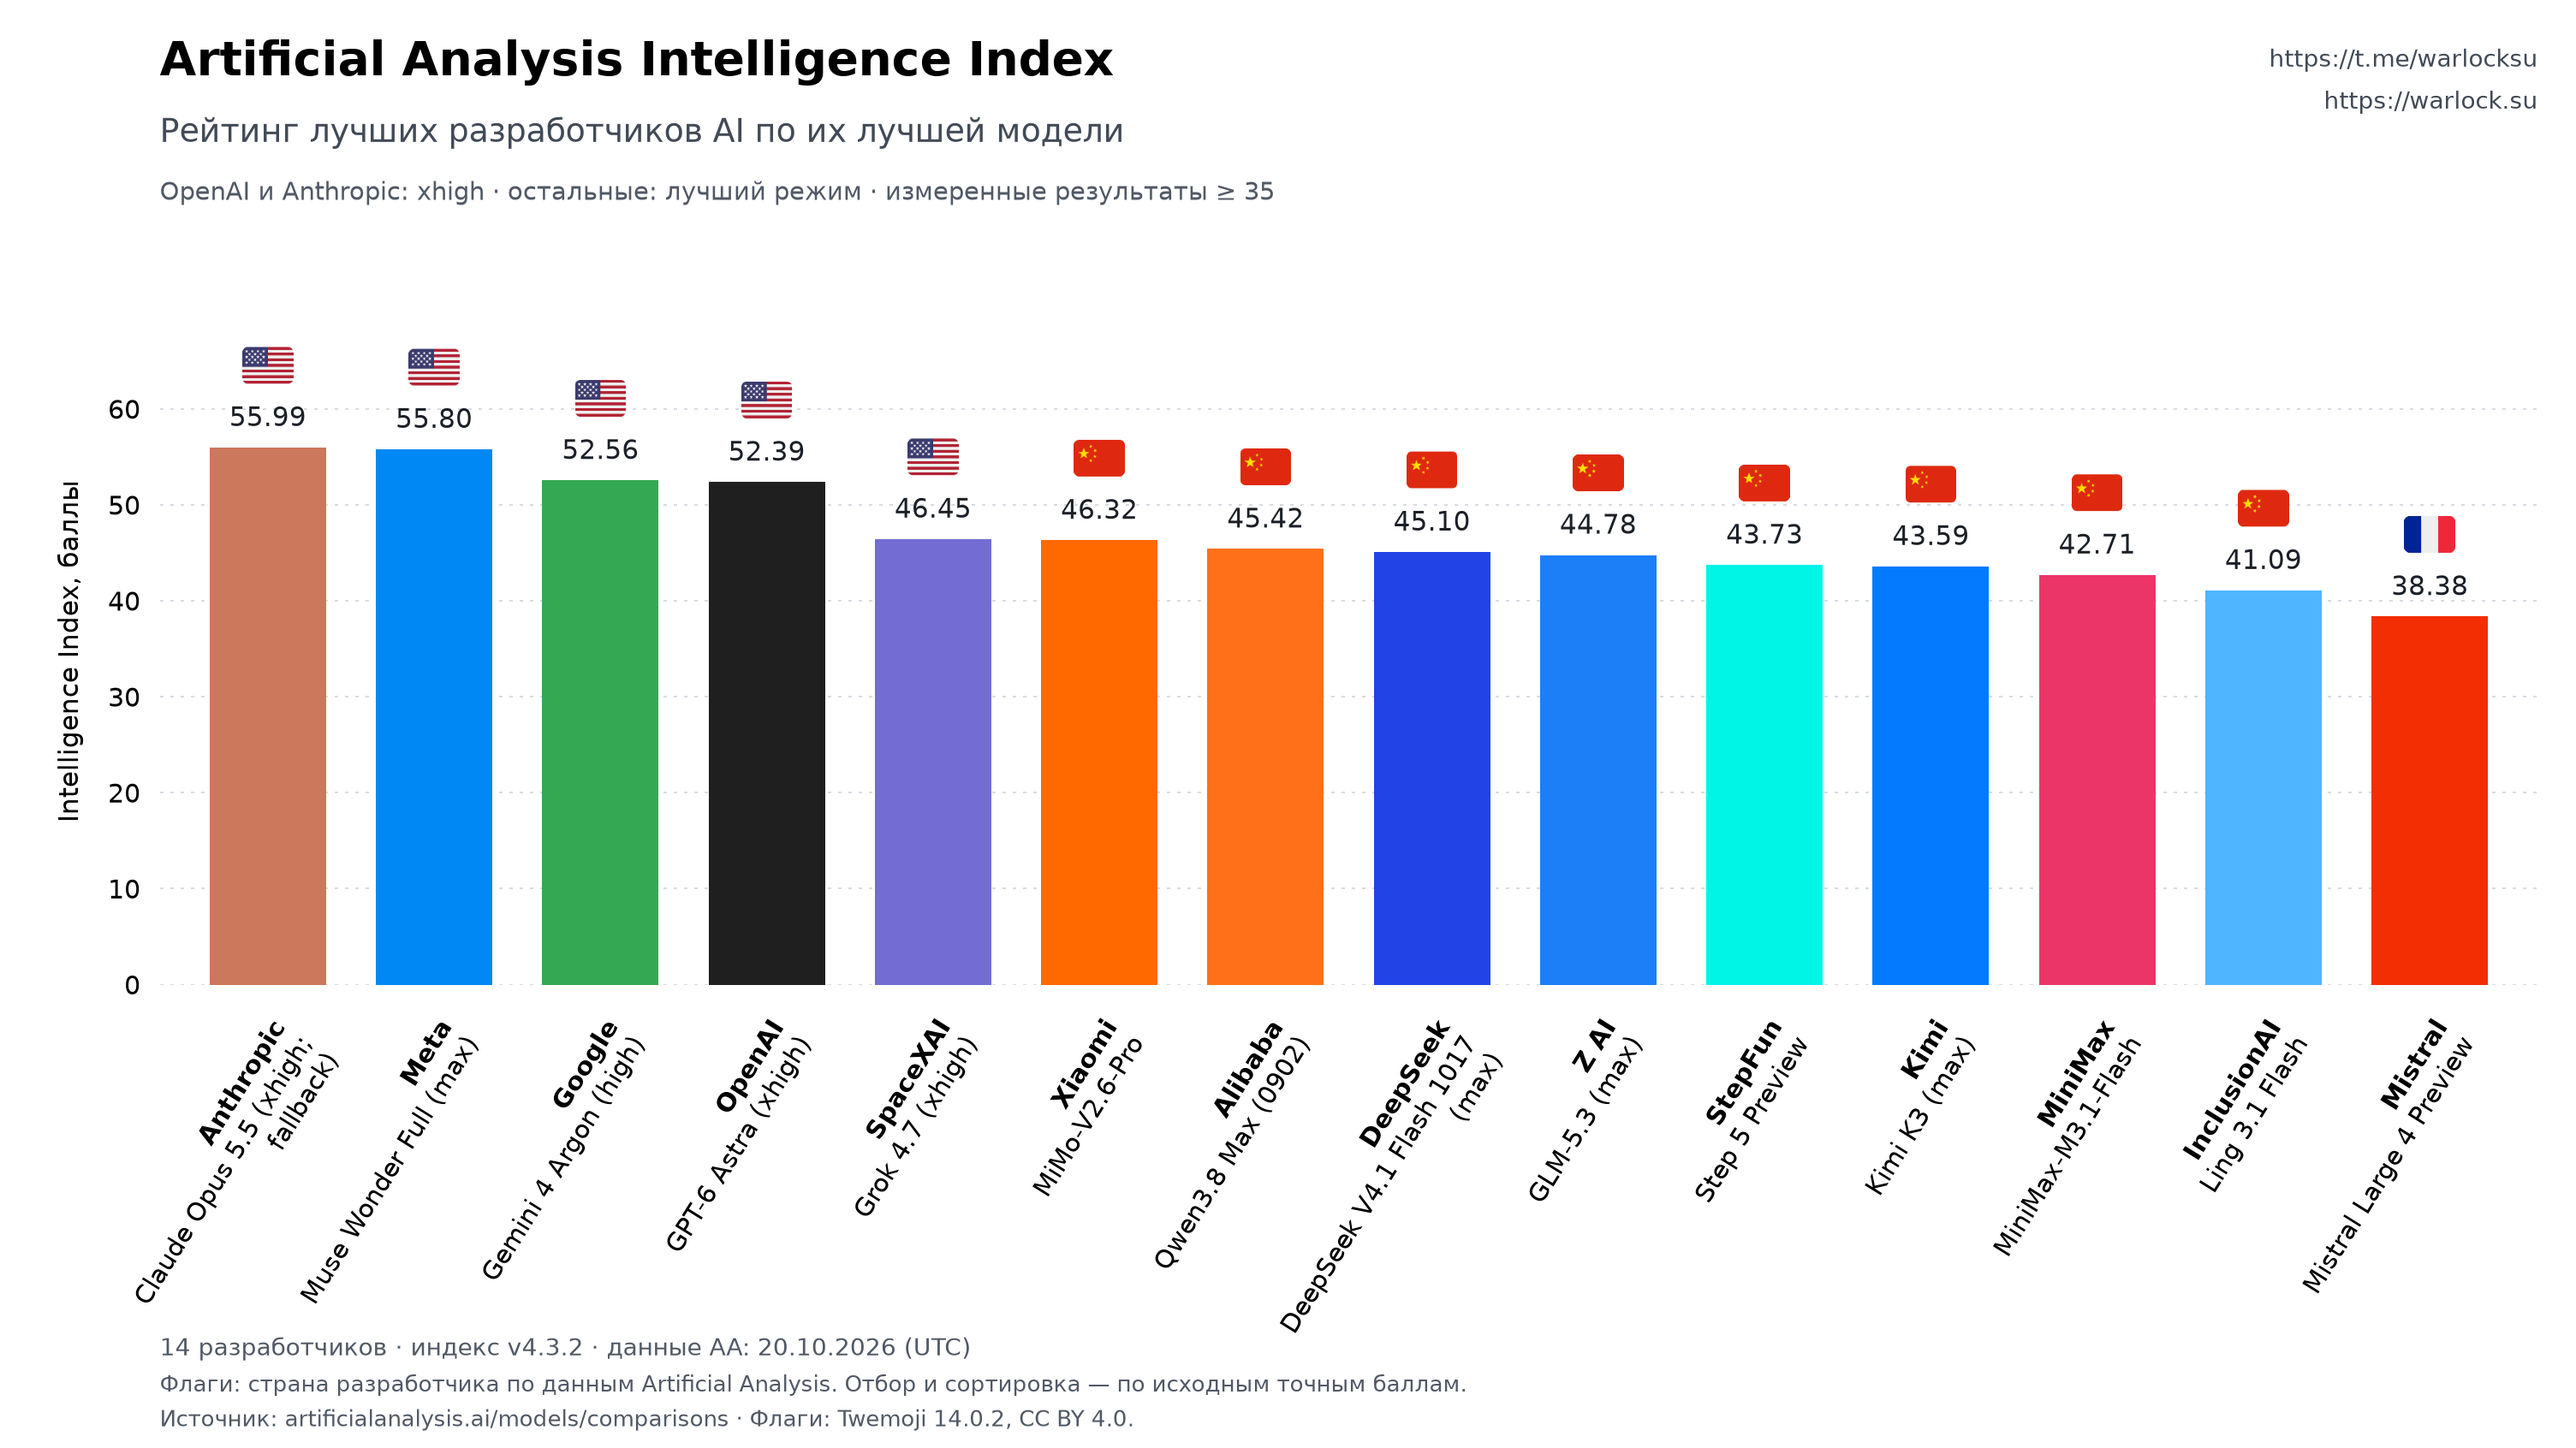
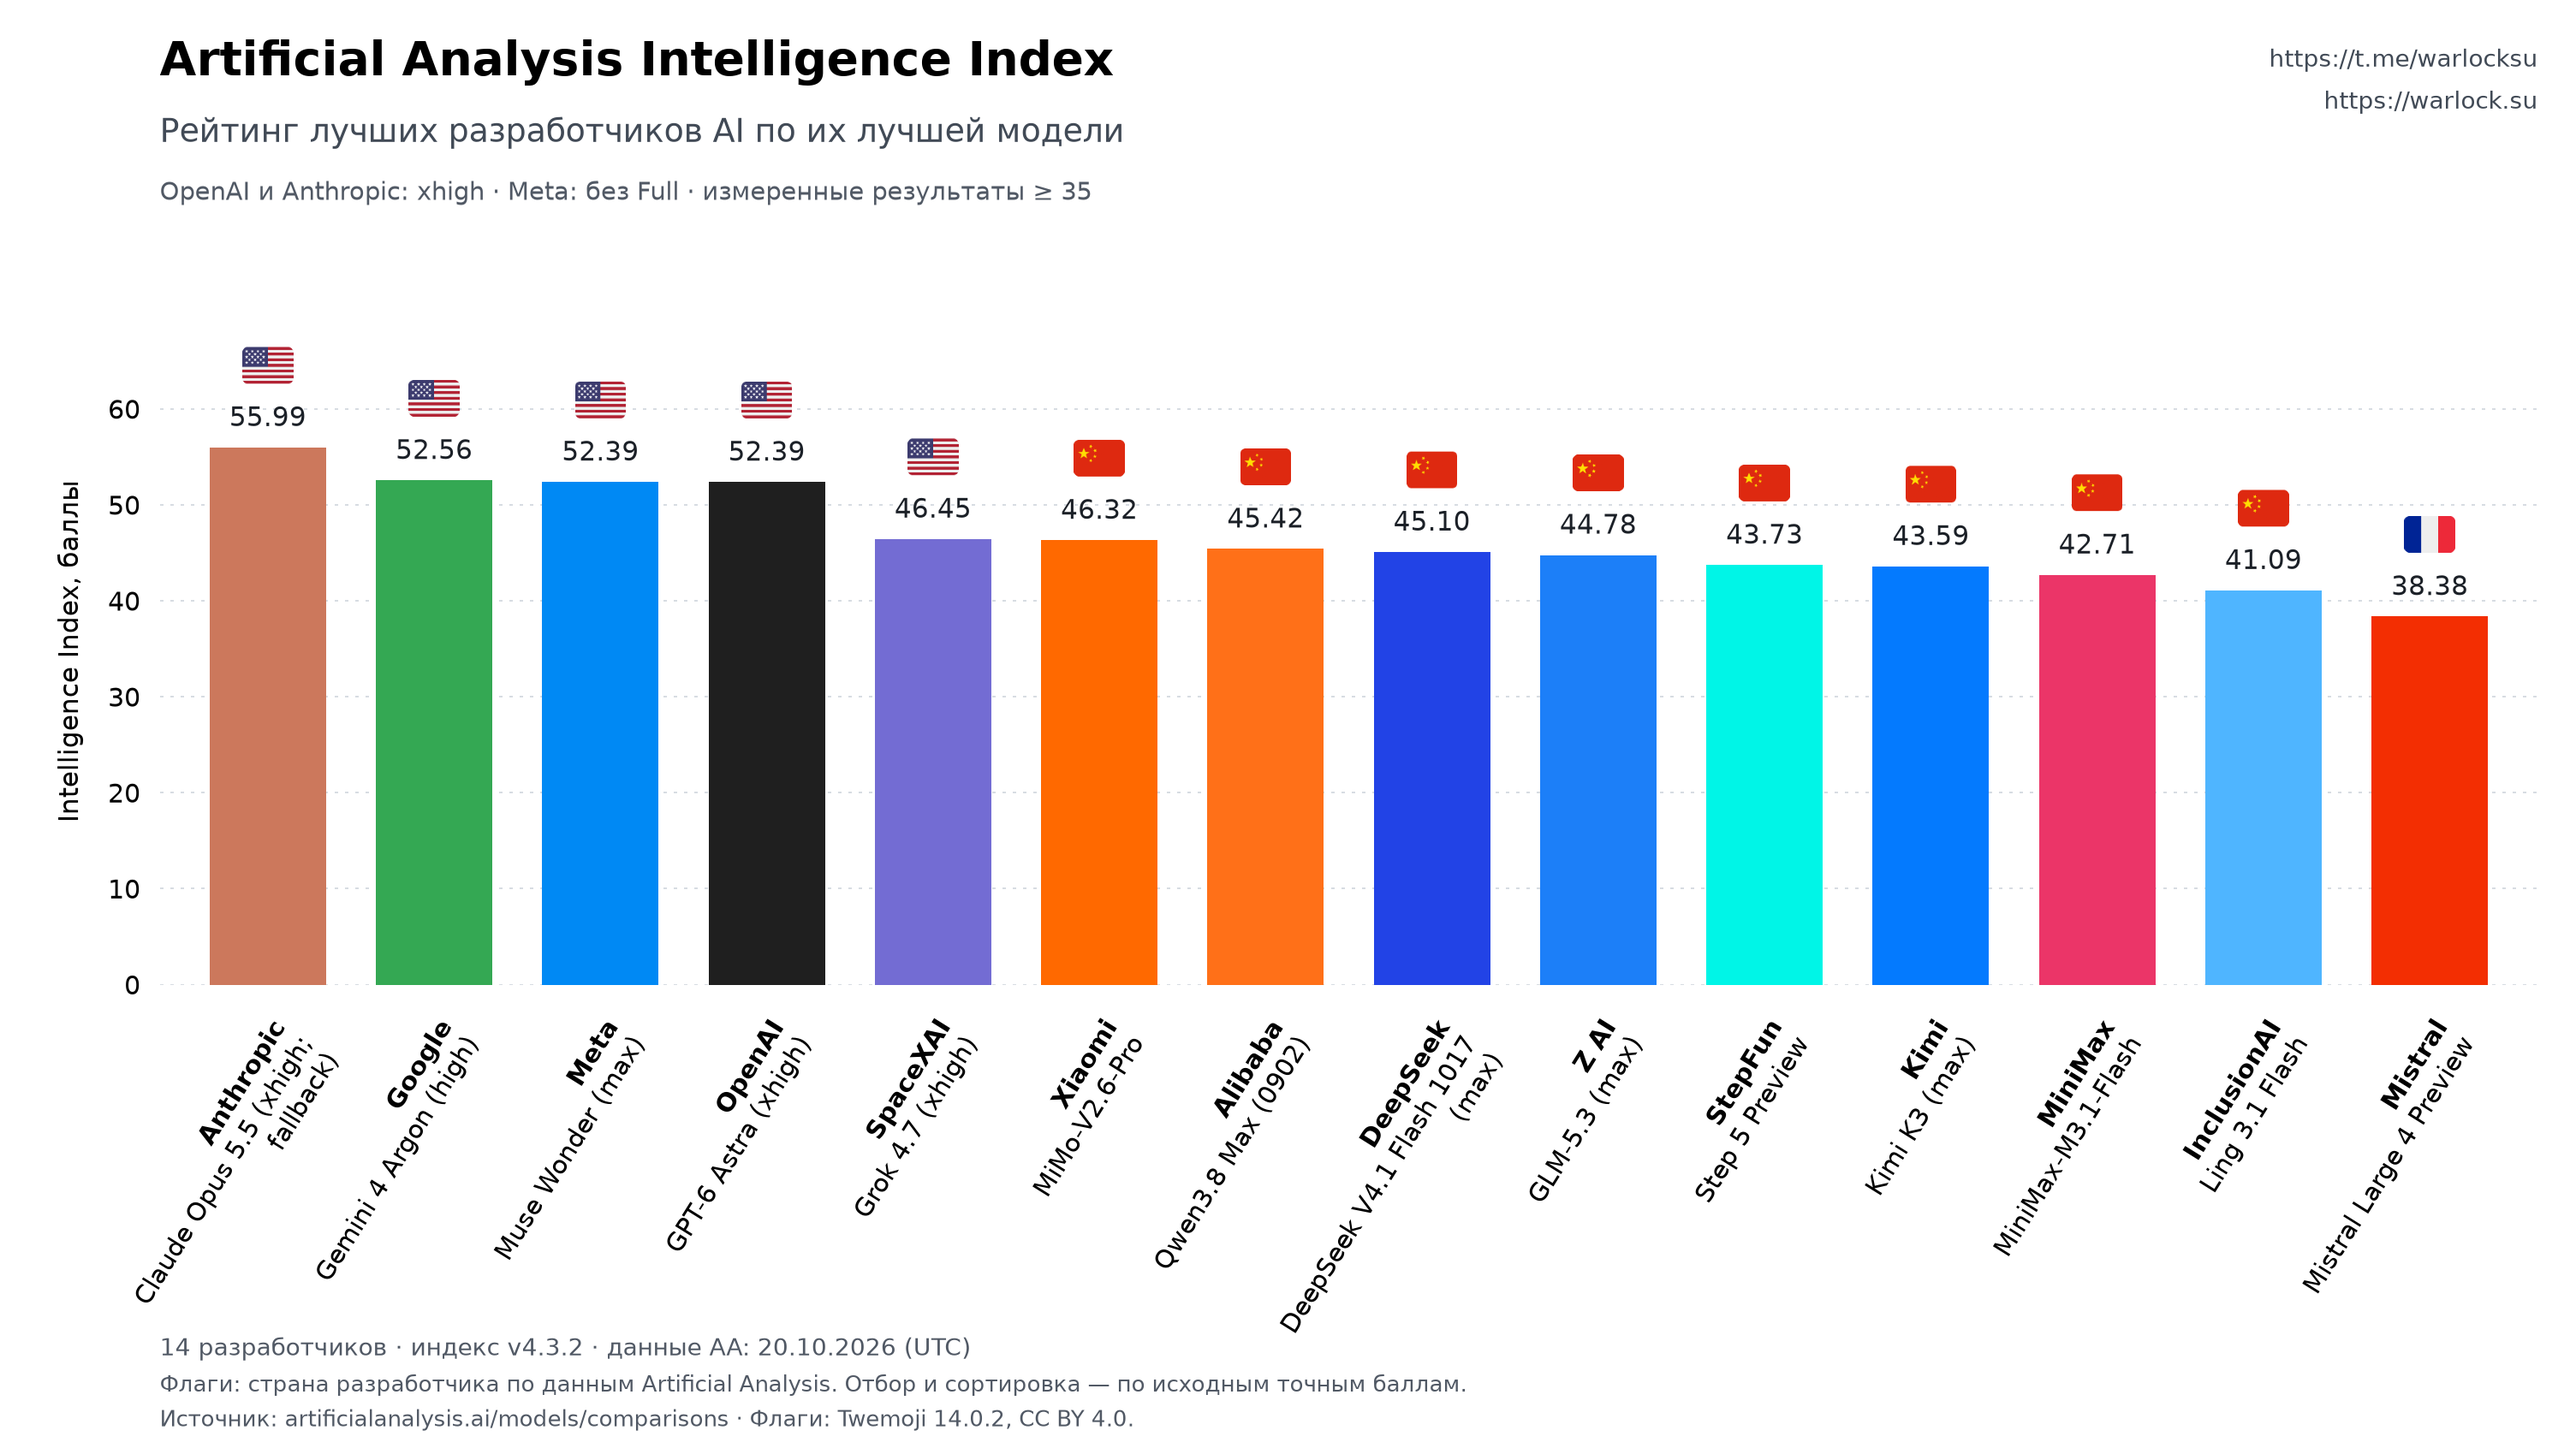
Use API-available Muse Wonder instead of Full

diff --git a/skills/ai-fair-rating/scripts/rating.py b/skills/ai-fair-rating/scripts/rating.py
@@ -19,6 +19,7 @@ from urllib.request import Request, urlopen
 SOURCE = "https://artificialanalysis.ai/models/comparisons"
 SKILL_DIR = Path(__file__).resolve().parents[1]
 FLAG_SOURCE = "https://cdn.jsdelivr.net/gh/twitter/twemoji@14.0.2/assets/72x72/"
+EXCLUDED_RELEASES = {"muse-wonder-full"}
 
 
 def download(url):
@@ -84,6 +85,9 @@ def select_models(models, min_score=35):
         if isinstance(score, bool) or not isinstance(score, (int, float)) or not math.isfinite(score):
             continue
         if model.get("intelligenceIndexIsEstimated") is not False:
+            continue
+        release = (model.get("release") or {}).get("slug") or model.get("slug")
+        if release in EXCLUDED_RELEASES:
             continue
         creator = model.get("creator") or {}
         if not all(creator.get(key) for key in ("id", "slug", "name")):
@@ -170,7 +174,7 @@ def render_chart(rows, snapshot, output, min_score, telegram, website):
     fig.text(.062, .948, "Artificial Analysis Intelligence Index", fontproperties=bold, fontsize=22)
     fig.text(.062, .902, "Рейтинг лучших разработчиков AI по их лучшей модели",
              fontproperties=regular, fontsize=15, color="#414a56")
-    fig.text(.062, .862, f"OpenAI и Anthropic: xhigh · остальные: лучший режим · измеренные результаты ≥ {min_score:g}",
+    fig.text(.062, .862, f"OpenAI и Anthropic: xhigh · Meta: без Full · измеренные результаты ≥ {min_score:g}",
              fontproperties=regular, fontsize=11.5, color="#515965")
     for y, url in ((.954, telegram), (.925, website)):
         fig.text(.985, y, url, ha="right", fontproperties=regular, fontsize=11,
@@ -242,6 +246,7 @@ def main(argv=None):
     metadata.update({"catalog_entries": len(snapshot["models"]), "developers_shown": len(rows),
                      "minimum_score_inclusive": args.min_score, "estimated_scores_included": False,
                      "restricted_effort": {"openai": "xhigh", "anthropic": "xhigh"},
+                     "excluded_releases": sorted(EXCLUDED_RELEASES),
                      "snapshot_sha256": hashlib.sha256(json.dumps(snapshot, sort_keys=True, ensure_ascii=False).encode()).hexdigest(),
                      "layout": layout})
     (args.output / "metadata.json").write_text(json.dumps(metadata, ensure_ascii=False, indent=2), encoding="utf-8")

diff --git a/tests/test_rating.py b/tests/test_rating.py
@@ -48,6 +48,15 @@ class SelectionTests(unittest.TestCase):
     def test_no_fallback_to_max(self):
         self.assertEqual(rating.select_models([model("only-max", 90, "openai", "max")]), [])
 
+    def test_meta_uses_wonder_instead_of_full_or_its_effort_variants(self):
+        rows = rating.select_models([
+            model("muse-wonder-full", 56, "meta", "max"),
+            model("muse-wonder-full-xhigh", 55, "meta", "xhigh", release={"slug": "muse-wonder-full"}),
+            model("muse-wonder", 52.393894697293, "meta", "max"),
+            model("muse-spark-1-3", 48, "meta", "max"),
+        ])
+        self.assertEqual([row["slug"] for row in rows], ["muse-wonder"])
+
 
 class SourceTests(unittest.TestCase):
     def test_public_payload_decoding(self):

diff --git a/README.md b/README.md
@@ -13,8 +13,9 @@ Skill и небольшой Python-скрипт строят понятный р
 1. Загружается полный публичный каталог [Artificial Analysis](https://artificialanalysis.ai/models/comparisons).
 2. Остаются только числовые, независимо измеренные результаты. Предварительные оценки и записи без явного статуса измерения исключаются.
 3. У OpenAI и Anthropic допускается **только xhigh**. У остальных разработчиков ограничений режима нет.
-4. По `creator.id` выбирается одна модель с максимальным исходным баллом.
-5. На график попадают результаты **от 35 баллов включительно**. Отбор и сортировка выполняются до округления; подписи показывают два знака.
+4. У Meta исключён релиз **Muse Wonder Full**: он [не доступен через публичный API](https://dev.meta.ai/docs/models). Используется измеренный результат обычной Muse Wonder. Это правило доступности; гипотеза, что Full представляет собой только мультиагентный harness, не считается установленным фактом.
+5. По `creator.id` выбирается одна модель с максимальным исходным баллом.
+6. На график попадают результаты **от 35 баллов включительно**. Отбор и сортировка выполняются до округления; подписи показывают два знака.
 
 Страны и названия разработчиков берутся из самого источника. Количество компаний меняется с обновлением данных. Это сравнение достижений в одном индексе при указанных настройках; оно не утверждает равный вычислительный бюджет или доступность модели в определённой подписке. Название режима max само по себе не доказывает мультиагентность.
 

diff --git a/skills/ai-fair-rating/SKILL.md b/skills/ai-fair-rating/SKILL.md
@@ -12,6 +12,7 @@ Generate the current developer ranking from public Artificial Analysis data usin
 - Group by the source's `creator.id`, using its developer names and countries.
 - Include only finite numeric `intelligenceIndex` scores with `intelligenceIndexIsEstimated` explicitly false. Missing status is not a measured result.
 - For OpenAI and Anthropic, require `effort.slug == "xhigh"`. Do not fall back to max or another setting. Other developers have no effort restriction.
+- Exclude the `muse-wonder-full` release, including its effort variants: it is not offered through the public Meta Model API. Use the eligible Muse Wonder result for Meta. This is an availability rule, not a claim that Full is an ensemble or merely a harness mode.
 - Choose the highest exact eligible score per developer, then retain scores **at least 35** by default. Rank before rounding; display two decimals.
 - Keep companies bold, model names readable, and country flags above the values with a visible gap. Preserve the zero baseline.
 - Use the subtitle `Рейтинг лучших разработчиков AI по их лучшей модели`. Put `https://t.me/warlocksu` and `https://warlock.su` in the upper-right corner by default; CLI options allow replacement.

diff --git a/AGENTS.md b/AGENTS.md
@@ -2,7 +2,7 @@
 
 Keep this project small: one self-contained skill and one Python entry point. Prefer the standard library; do not add a web app, database, scheduler, or abstraction layer without a concrete request.
 
-The ranking rules live in `skills/ai-fair-rating/SKILL.md`. Keep the script, README, and examples consistent with those rules. Filter out estimated and missing scores before selecting each creator's best eligible model. Compare full precision scores; 35 is included. Never substitute max for OpenAI/Anthropic xhigh.
+The ranking rules live in `skills/ai-fair-rating/SKILL.md`. Keep the script, README, and examples consistent with those rules. Filter out estimated and missing scores before selecting each creator's best eligible model. Compare full precision scores; 35 is included. Never substitute max for OpenAI/Anthropic xhigh. Exclude the Muse Wonder Full release because it is not offered through the public API; do not present a hypothesis about its architecture as fact.
 
 Use public source data; do not infer scores, countries, or unavailable settings. A source format change must produce an actionable error instead of silently using the initial few models or an old snapshot.
 
